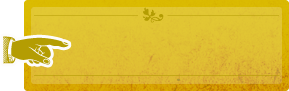
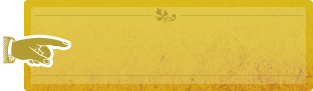
fix for pixel weirdness

Changed region(s): [[0.0, 0.0, 1.0, 1.0], [0.5917, 0.8571, 0.6228, 0.8791]]

diff --git a/public/stylesheets/main.css b/public/stylesheets/main.css
@@ -30,7 +30,7 @@ p { margin-bottom: 1em;}
 .tip, .commentMetaData { color: #9f9b97; font-family: Georgia, "Times New Roman", Times, serif; font-style: oblique; font-size: 95%; line-height: 18px; margin-bottom: 30px; display: block;}
 .commentMetaData { margin-bottom: 10px;}
 
-#pageMain { background: url(/images/bg_header2.jpg) top center no-repeat; display: block; height: 380px;}
+#pageMain { background: url(/images/bg_header2.jpg) center top no-repeat; display: block; height: 380px; width: 960px; margin: 0 auto;}
 header, #mainContent, footer { width: 940px; margin: 0 auto; display: block; padding: 0 10px;}
 
 header { height: 205px; margin-bottom: 60px;}
@@ -40,8 +40,8 @@ header { height: 205px; margin-bottom: 60px;}
 h1 { width: 266px; height: 68px; padding-top: 55px; margin-bottom: 35px;}
 h1 a { display: block; text-indent: -9999em; width: 266px; height: 68px; background: url(/images/logo.png) top left no-repeat;}
 
-#ltColumn { float: left; width: 292px; margin-right: 29px;}
-#rtColumn { float: left; width: 569px; background-color: #fafdf6; padding: 0 25px 0 25px; padding-bottom: 80px; margin-top: 115px;}
+#ltColumn { float: left; width: 291px; margin-right: 29px;}
+#rtColumn { float: left; width: 570px; background-color: #fafdf6; padding: 0 25px 0 25px; padding-bottom: 80px; margin-top: 115px;}
 #rtColumn_content { margin-top: -125px;}
 
 h2 { font-family: 'Typewriter', Georgia, "Times New Roman", Times, serif; font-size: 190%; color: #fdfcfb; margin-bottom: 20px; line-height: 26px;}
